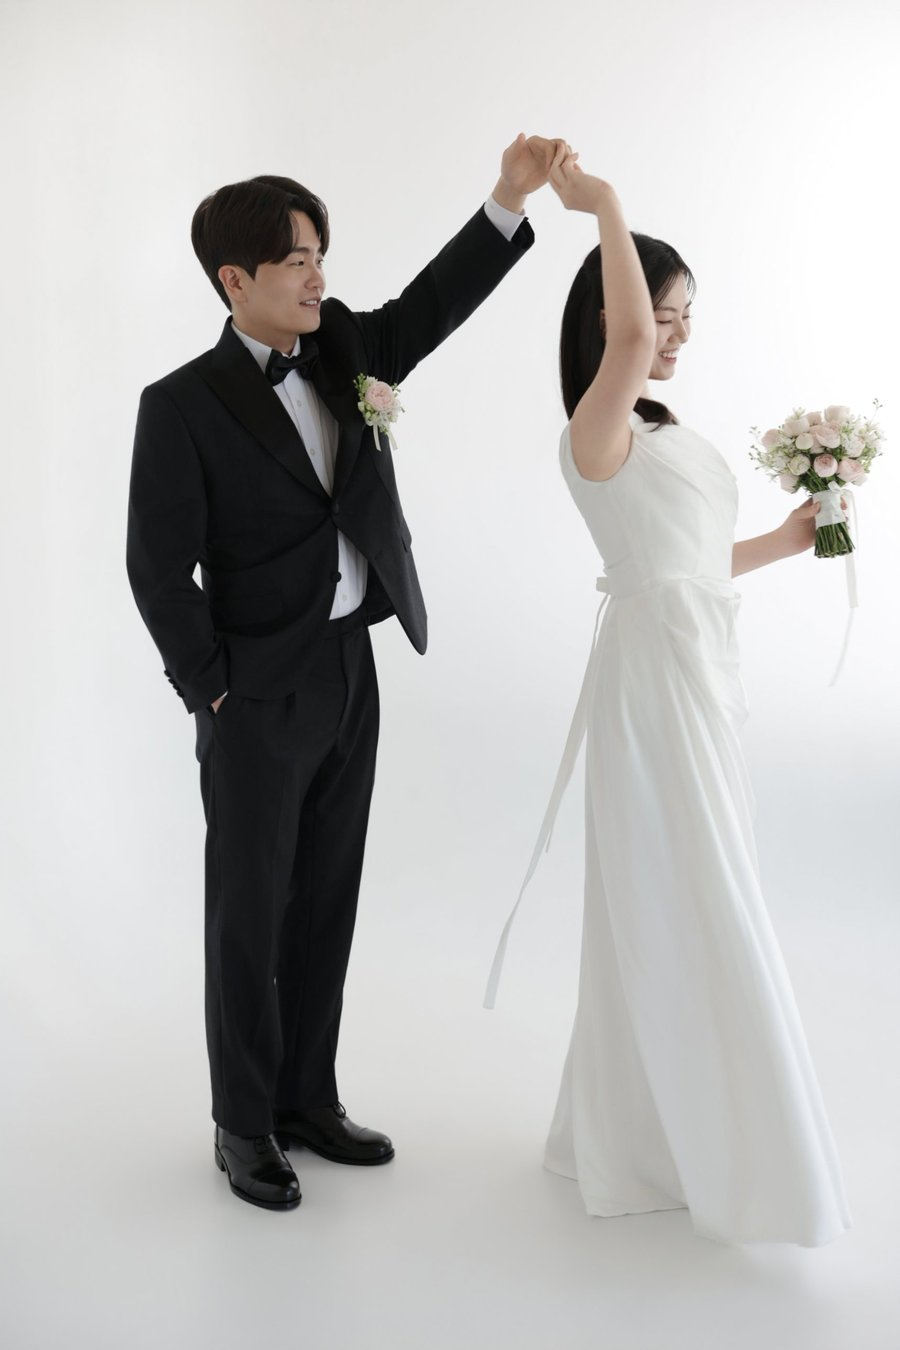
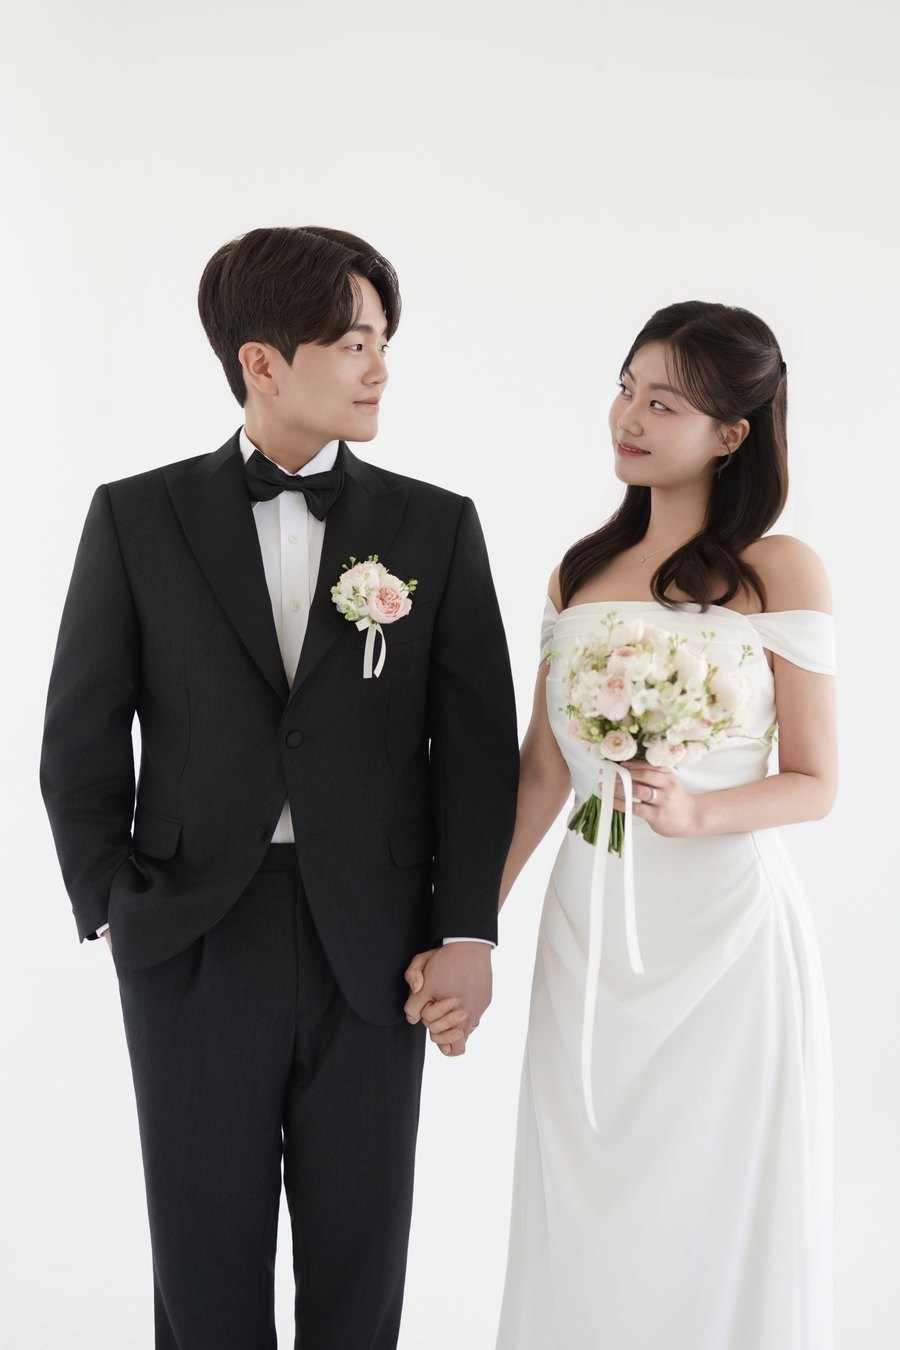
메인 대표 사진 교체 (봉투 사진 · 카톡/링크 미리보기)
Claude-Session: https://claude.ai/code/session_01H5C55oqsMj9ix93YES1rr9

diff --git a/index.html b/index.html
@@ -12,7 +12,7 @@
 <meta property="og:type" content="website">
 <meta property="og:title" content="민석 ♥ 이화 결혼합니다">
 <meta property="og:description" content="2027년 3월 13일 토요일 오후 3시 · 웨딩시그니처 2층 트리니티홀">
-<meta property="og:image" content="https://ehwa-jang.github.io/wedding/images/cover.jpg">
+<meta property="og:image" content="https://ehwa-jang.github.io/wedding/images/cover.jpg?v=dev">
 <meta property="og:url" content="https://ehwa-jang.github.io/wedding/">
 
 <link rel="preconnect" href="https://fonts.googleapis.com">
@@ -38,7 +38,7 @@
       <span class="envelope__back"></span>
       <span class="envelope__holder">
         <span class="envelope__photo">
-          <img src="images/cover.jpg?v=dev" alt="턱시도를 입은 민석이 흰 드레스를 입고 부케를 든 이화의 손을 잡고 돌려주는 웨딩 사진">
+          <img src="images/cover.jpg?v=dev" alt="턱시도를 입은 민석과 흰 드레스에 부케를 든 이화가 손을 잡고 서로를 바라보는 웨딩 사진">
         </span>
       </span>
       <svg class="envelope__front" viewBox="0 0 300 200" preserveAspectRatio="none" aria-hidden="true">

diff --git a/js/main.js b/js/main.js
@@ -322,7 +322,7 @@
         content: {
           title: '민석 ♥ 이화 결혼합니다',
           description: '2027년 3월 13일 토요일 오후 3시\n웨딩시그니처 2층 트리니티홀',
-          imageUrl: SITE_URL + 'images/cover.jpg',
+          imageUrl: SITE_URL + 'images/cover.jpg?v=dev',   // 배포마다 버전이 붙어 카톡도 새 사진을 가져가요
           link: link
         },
         buttons: [{ title: '청첩장 보기', link: link }]
